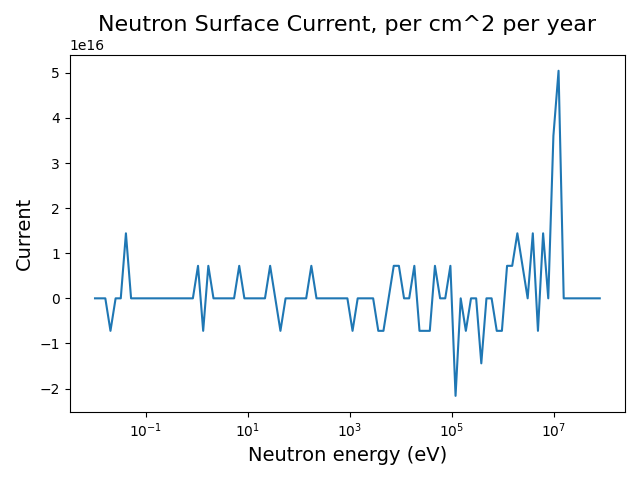
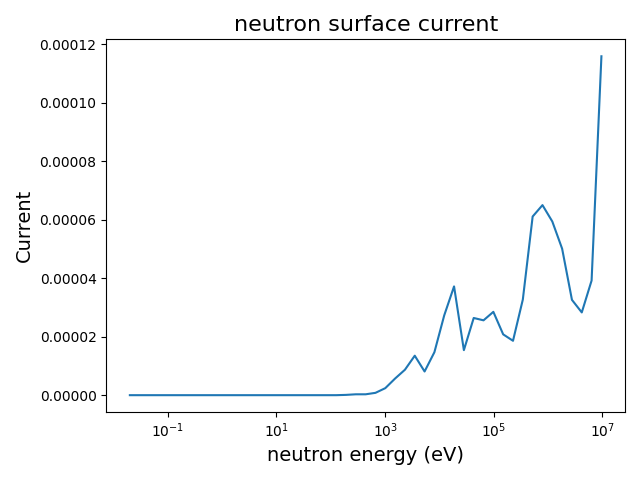
Cleaned up geometry building
-Added functionality to build_tokamak to enable exporting of arbitrary geometry layers to .h5m
-Added overall leakage tally to run_tokamak

diff --git a/Code/workspace/src/build_tokamak_with_tf_coils.py b/Code/workspace/src/build_tokamak_with_tf_coils.py
@@ -119,57 +119,98 @@ def main():
         )
     print("Built tokamak...")
 
-    filename = "reactor_with_tf_coils.step"
-    my_reactor.export(os.path.join(results_dir, filename))
-    print(f"Tokamak model saved as {filename}")
+    stepfilename = "reactor_with_tf_coils.step"
+    my_reactor.export(os.path.join(results_dir, stepfilename))
+    print(f"Tokamak model saved as {stepfilename} for easy viewing in CAD software...")
 
-    ##### EXPORT TO H5M #####
-
-    A = CadToDagmc()
-    #very specific order of material tags, no touchy
-    A.add_cadquery_object(my_reactor, material_tags=["tfcoil", #extra_cut_shape_1
-                                                    "placeholder", #layer_1
-                                                    "tungsten", #layer_2
-                                                    "vanadium_alloy", #layer_3
-                                                    "channel_mat", #layer_4
-                                                    "vanadium_alloy", #layer_5
-                                                    "blanket_mat", #layer_6
-                                                    "blanketouter", #layer_7
-                                                    "shield", #layer_8
-                                                    "placeholder"]) #plasma
+    ##### EXPORT GEOMETRY #####
     
-    print("Converted CadQuery assembly to DAGMC geometry...")
+    def export_tokamak_to_h5m(reactor,
+                              section='whole',
+                              export_vtk=False,
+                              scale_factor=1,
+                              min_mesh_size=1,
+                              max_mesh_size=10):
+        
+        reactor_copy = copy.copy(reactor)
+        print(f"Created copy of reactor geometry for section '{section}'...")
+        ids = cad_to_dagmc.get_ids_from_assembly(reactor_copy)
+        
+        for_removal = []
 
-    A.export_dagmc_h5m_file(filename=os.path.join(results_dir, f"tokamak_with_tf_coils.h5m"), 
-                            scale_factor=1,
-                            min_mesh_size=1,
-                            max_mesh_size=10
-                            )
-    
-    ##### DUPLICATE MAGNETS #####
+        #creating list of volumes for removal
+        if section=='whole':
+            filename_no_ending = "tokamak_with_tf_coils"
+            material_tags = ["tfcoil", #extra_cut_shape_1
+                            "placeholder", #layer_1
+                            "tungsten", #layer_2
+                            "vanadium_alloy", #layer_3
+                            "channel_mat", #layer_4
+                            "vanadium_alloy", #layer_5
+                            "blanket_mat", #layer_6
+                            "blanketouter", #layer_7
+                            "shield", #layer_8
+                            "placeholder"] #plasma
+        elif section=='onlyreactor':
+            filename_no_ending = "tokamak_reactor_only"
+            for i, assembly in enumerate(ids):
+                if i == 0 or i == 8: #first volume (magnet coils) or 9th volume (shield)
+                    for_removal.append(assembly)
+            material_tags = ["placeholder", #layer_1
+                            "tungsten", #layer_2
+                            "vanadium_alloy", #layer_3
+                            "channel_mat", #layer_4
+                            "vanadium_alloy", #layer_5
+                            "blanket_mat", #layer_6
+                            "blanketouter", #layer_7
+                            "placeholder"] #plasma
+        elif section=='shieldwithmagnets':
+            filename_no_ending = "tokamak_shield_and_magnets"
+            for i, assembly in enumerate(ids):
+                if i != 0 and i != 8: #not first volume (magnet coils) or 9th volume (shield)
+                    for_removal.append(assembly)
+            material_tags = ["tfcoil",
+                             "shield"]
+        elif section=='onlymagnets':
+            filename_no_ending = "tokamak_magnets_only"
+            for_removal = [assembly for i,assembly in enumerate(ids) if i != 0] #all but first volume
+            material_tags = ["tfcoil"]
+            
+        #remove condemned volumes
+        for id in for_removal:
+            id_to_remove = id.split("/")[-1] #only volume name, not hash string in front
+            trimmed_reactor = reactor_copy.remove(id_to_remove)
+            print(f"Removed volume {id_to_remove} from reactor copy...")
+            reactor_copy = copy.copy(trimmed_reactor)
 
-    ids = cad_to_dagmc.get_ids_from_assembly(my_reactor)
-    #print(f"IDs of assembly: {ids}")
-    for_removal = [assembly for i,assembly in enumerate(ids) if i != 0] #all but the magnet assembly scheduled for removal
-    print(f"For removal: {for_removal}")
+        remaining_volumes = cad_to_dagmc.get_ids_from_assembly(reactor_copy)
 
-    for id in for_removal:
-        trimmed = my_reactor.remove(id.split("/")[-1]) #take only the assembly name after the slash
-        my_reactor = copy.copy(trimmed)
+        filename = f"{filename_no_ending}.h5m"
+        filepath = os.path.join(results_dir, filename)
 
-    remaining_ids = cad_to_dagmc.get_ids_from_assembly(my_reactor)
-    print(f"Remaining IDs: {remaining_ids}")
+        A = CadToDagmc()
+        A.add_cadquery_object(reactor_copy,
+                              material_tags=material_tags
+                              )
+        
+        print("Created DAGMC geometry from CadQuery assembly of trimmed reactor model...")
 
-    B = CadToDagmc()
-    B.add_cadquery_object(my_reactor, material_tags=["placeholder"]) #geometry for meshing purposes, does not need a material
+        A.export_dagmc_h5m_file(filename=filepath,
+                                scale_factor=scale_factor,
+                                min_mesh_size=min_mesh_size,
+                                max_mesh_size=max_mesh_size)
 
-    print("Created duplicate DAGMC magnet geometry...")
+        if export_vtk == True:
+            print("Exporting .vtk mesh of trimmed reactor model...")
+            vtk_filename = f"{filename_no_ending}.vtk"
+            vtk_filepath = os.path.join(results_dir, vtk_filename)
+            A.export_unstructured_mesh_file(filename=vtk_filepath,
+                                    scale_factor=scale_factor,
+                                    min_mesh_size=min_mesh_size,
+                                    max_mesh_size=max_mesh_size)
 
-    B.export_unstructured_mesh_file(filename=os.path.join(results_dir, "magnet_mesh.vtk"),
-                                    scale_factor=1,
-                                    min_mesh_size=1,
-                                    max_mesh_size=10) #same params as above, should generate the same object
-
+    export_tokamak_to_h5m(my_reactor, section='onlyreactor')
+    export_tokamak_to_h5m(my_reactor, section='shieldwithmagnets')
 
 if __name__ == "__main__":
     main()

diff --git a/Code/workspace/src/run_tokamak.py b/Code/workspace/src/run_tokamak.py
@@ -11,7 +11,14 @@ results_dir = os.path.abspath(os.path.join(os.path.dirname(__file__), '..', 'res
 print(f"Results directory location: {results_dir}")
 os.makedirs(results_dir, exist_ok=True)
 
-geometry_h5m = os.path.join(results_dir, "tokamak_with_tf_coils.h5m")
+run_mode = 'shieldingonly' #'shieldingonly' or 'fullsim' are the options
+
+if run_mode == 'fullsim':
+    geometry_h5m = os.path.join(results_dir, "tokamak_with_tf_coils.h5m")
+elif run_mode == 'shieldingonly':
+    geometry_h5m = os.path.join(results_dir, "tokamak_shield_and_magnets.h5m")
+
+print(f"Using geometry file {geometry_h5m} for run mode '{run_mode}")
 
 ##### MATERIALS DEFINITION #####
 
@@ -149,9 +156,13 @@ def make_ring_source(r, plot=False):
         z = openmc.stats.Discrete([0], [1.0])
     )
     n_source.angle = openmc.stats.Isotropic()
-    n_source.energy = openmc.stats.Discrete([14.1e6], [1.0]) #14.1MeV neutrons only
 
-    print(f"Neutron ring source created, radius {r}cm")
+    if run_mode == 'fullsim':
+        n_source.energy = openmc.stats.Discrete([14.1e6], [1.0]) #14.1MeV neutrons only
+    elif run_mode == 'shieldingonly':
+        n_source.energy = openmc.stats.PowerLaw(a=0.02, b=14.5e6, n=0.12) #energy^0.12 between 0.02 eV and 14.5 MeV
+
+    print(f"Neutron ring source created, radius {r}cm, for run mode '{run_mode}'")
 
     #plot source as sanity check
     if plot == True:
@@ -255,6 +266,34 @@ print("Constructed geometry")
 # print(f"No. of TF coil surfaces found: {len(tf_surfaceobjs)}")
 
 ##### TALLIES #####
+
+def bounding_cell_surface_tally(particle='neutron', name=None):
+    """Takes a cell and particle as input and returns a tally of energy-binned particles over that cell's surface"""
+
+    if name is None:
+        name = f"{particle} leakage by energy bin"
+    
+    cell_surfaces_dict = bounded_dag_univ.cells[10000].region.get_surfaces()
+    cell_surface = [surface for surface in cell_surfaces_dict.values()][0] #should only contain one surface, so accessing it like this is fine
+
+    surface_filter = openmc.SurfaceFilter(cell_surface)
+
+    p_filter = openmc.ParticleFilter(particle)
+
+    low_energy = 0.02 #eV, roughly thermal
+    high_energy = 14.5e6 #eV, just above maximum energy
+
+    e_start = np.log10(low_energy)
+    e_stop = np.log10(high_energy)
+
+    e_filter = openmc.EnergyFilter(np.logspace(start=e_start, stop=e_stop, num=50))
+
+    surface_tally = openmc.Tally()
+    surface_tally.filters = [surface_filter, p_filter, e_filter]
+    surface_tally.scores = ['current']
+    surface_tally.name = name
+
+    return surface_tally
 
 def surface_tally_from_pydagmc(surface_id, particle="neutron", name=None):
     """
@@ -372,6 +411,7 @@ def volumetric_flux_from_mesh(meshfile, particle="neutron", name=None):
     flux_tally = openmc.Tally()
     flux_tally.filters = [mesh_filter, p_filter]
     flux_tally.scores = ['flux']
+    flux_tally.name = name
 
     return flux_tally
 
@@ -379,18 +419,19 @@ flux_tally = volumetric_flux_from_mesh(meshfile="magnet_mesh.vtk")
 #surface_tally = surface_current_from_mesh(meshfile="dummy.1.h5")
 
 tallies = openmc.Tallies()
-#tallies.append(flux_tally)
-#tallies.append(surface_tally)
+tallies.append(flux_tally)
+# tallies.append(surface_tally)
 for i in range(30):
     tallies.append(surface_tally_from_pydagmc(surface_id=i+1))
+#tallies.append(bounding_cell_surface_tally())
 
 for tally in tallies:
     print(f"Tally '{tally.name}' added")
 
 ##### SETTINGS #####
 
-batch_no = 200
-particle_no = 100000
+batch_no = 25
+particle_no = 1000000
 
 settings = openmc.Settings()
 #settings.photon_transport = True
@@ -423,12 +464,14 @@ def get_area(surface_id):
     area = surface.area
     return area
 
-def get_surface_current(surface_id, particle='neutron', per_unit_area=True):
+def get_surface_current(surface_id, particle='neutron', per_unit_area=True, normalise=True):
     tally_name = f"{particle} current across surface {surface_id}"
     try:
         surface_tally_results = results.get_tally(name=tally_name)
         resultsdf = surface_tally_results.get_pandas_dataframe()
         particle_sum = sum(resultsdf['mean'])
+        if normalise == False:
+            particle_sum *= n_per_year
         if per_unit_area == True:
             print(f"{particle} current per unit area for surface {surface_id}: {particle_sum/get_area(surface_id)}")
         else:
@@ -472,6 +515,6 @@ def mesh_tally_to_vtk(particle="neutron", normalise=True):
 
 for i in range(30):
     #print(f"Area of surface {i+1}: {get_area(i+1)}cm^2")
-    print(f"Current over surface {i+1}: {get_surface_current(surface_id=i+1, per_unit_area=False)}")
+    print(f"{get_surface_current(surface_id=i+1, per_unit_area=False)}")
 
-#mesh_tally_to_vtk("neutron", normalise=False)
+mesh_tally_to_vtk("neutron")
